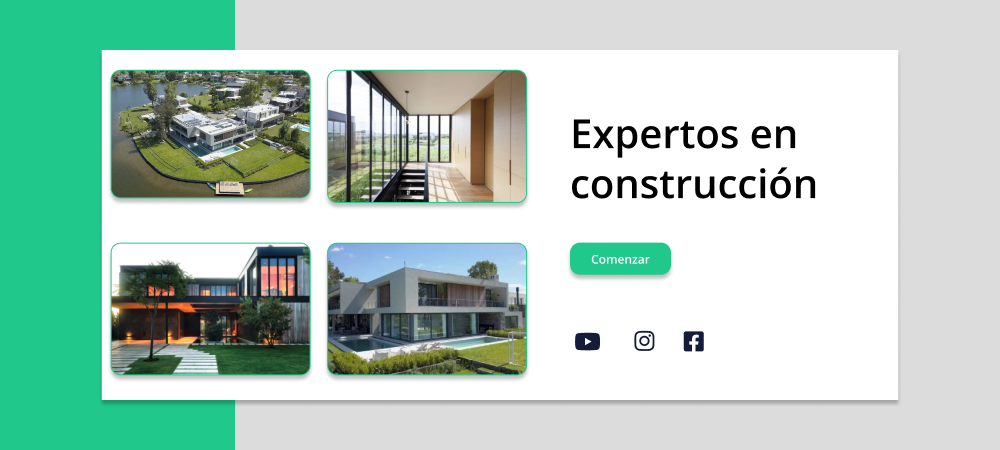
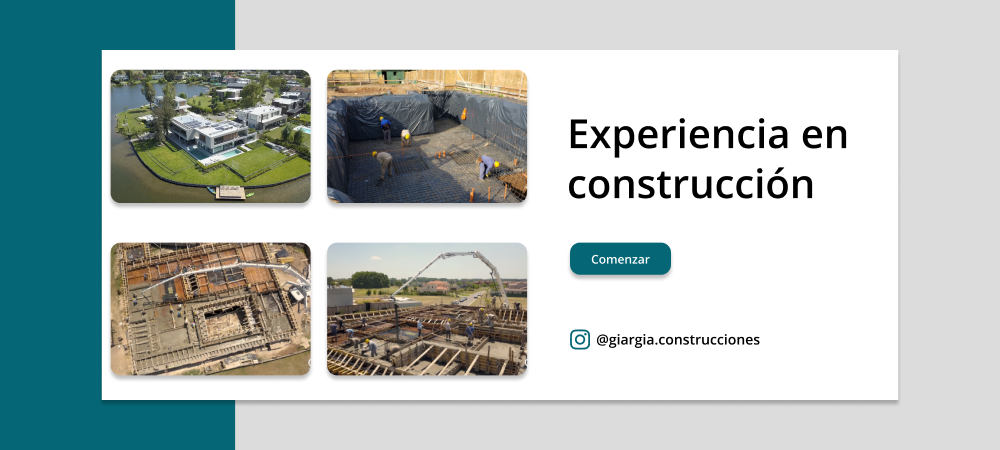
Maquetacion estructura inicial home

diff --git a/index.html b/index.html
@@ -16,10 +16,10 @@
 </head>
 <body>
     <!-- Menu Navbar -->
-    <nav class="navbar navbar-expand-lg">
+    <nav class="navbar navbar-expand-lg menu-navegacion">
         <div class="container">
             <a class="navbar-brand" href="#home"><img src="./img/logo-GA-2019.jpg" alt="logo Giargia" class="logo"></a>
-            <button class="navbar-toggler" type="button" data-toggle="collapse" data-target="#navbarNav" aria-controls="navbarNav" aria-expanded="false" aria-label="Toggle navigation">
+            <button class="navbar-toggler hamburger" type="button" data-toggle="collapse" data-target="#navbarNav" aria-controls="navbarNav" aria-expanded="false" aria-label="Toggle navigation">
                 <i class="fas fa-bars icon_menu"></i>
             </button>
             <div class="collapse navbar-collapse" id="navbarNav">
@@ -45,19 +45,19 @@
     <div class="main_banner">
         <img src="./img/image-hero.png" alt="main-image" class="main_banner-image">
         <div class="main_banner-content">
-            <h1 class="main_banner-title">Hacemos tu <br> proyecto posible</h1>
+            <h1 class="main_banner-title">Hacemos posible la <br> construcción de tu hogar.</h1>
             <button class="btn main_banner-boton">
-                <a href="#" class="main_banner_boton-link" role="button">Ver más</a>
+                <a href="#video" class="main_banner_boton-link" role="button">Conócenos</a>
             </button>
         </div>
     </div>
 
     <!-- Seccion Video -->
-    <section class="section_video">
+    <section class="section_video" id="video">
         <div class="container video_content">
             <div class="video_text">
-                    <h1>Trabajamos con profesionalismo, <br> compromiso e innovación</h1>
-                    <h2>Somos una empresa constructora con amplia experiencia, a través de más de <span class="font-weight-bold">40 años de trabajo ininterrumpido</span>, realizando una tarea que nos apasiona y, la cual, nos compromete con nuestros clientes.</h2>
+                    <h1>Construimos con profesionalismo, <br> compromiso e innovación</h1>
+                    <h2>Somos una empresa constructora con amplia experiencia, <span class="font-weight-bold">construyendo desde 1994 ininterrumpidamente</span>, realizando una tarea que nos apasiona y, la cual, nos compromete con nuestros clientes.</h2>
             </div>
             <button class="position-relative d-flex justify-content-center align-items-center border-0 p-0 button_modal" data-toggle="modal" data-target="#exampleModal">
                 <div class="play-icon position-absolute bg-dark rounded-circle d-flex">
@@ -82,6 +82,48 @@
         </div>
     </div>
 
+    <!-- Servicios -->
+    <main class="main_servicios">
+        <div class="servicios">
+            <div class="row">
+                <div class="col servicios_content">
+                    <h3 class="title_servicios">Nuestros servicios</h3>
+                </div>
+            </div>
+        </div>
+        <div class="container icon_container">
+            <div class="row icon_row">
+                <div class="col-12 col-md-4 civil">
+                    <i class="fas fa-pencil-ruler"></i>
+                    <h3 class="text-icon">Construcciones Civiles</h3>
+                </div>
+                <div class="col-12 col-md-4 hogar">
+                    <i class="fas fa-user-friends"></i>
+                    <h3 class="text-icon">Unifamiliar / multifamiliar</h3>
+                </div>
+                <div class="col-12 col-md-4 comercial">
+                    <i class="fas fa-hard-hat"></i>
+                    <h3 class="text-icon">Comercial</h3>
+                </div>
+            </div>
+        </div>
+    </main>
+
+    <!-- Mas sobre nosotros -->
+    <div class="container info_container">
+        <h4 class="info_title">Más sobre nosotros</h4>
+        <div class="row info_content">
+            <div class="col-12  col-md-4 info_border">
+                <h6 class="info_text">Mira nuestras obras finalzadas. <br> Contamos con muchos proyectos.</h6>
+                <button class="btn btn-outline-info info_margin">Ver más</button>
+            </div>
+            <div class="col-12 col-md-4 ">
+                <h6 class="info_text">Obras que se ven desde el cielo. <br> Con el maximo profesionalismo.</h6>
+                    <button class="btn btn-outline-info">Ver más</button>
+            </div>
+        </div>
+    </div>
+
 
     
 
@@ -90,7 +132,9 @@
     <script src="https://cdnjs.cloudflare.com/ajax/libs/popper.js/1.14.7/umd/popper.min.js" integrity="sha384-UO2eT0CpHqdSJQ6hJty5KVphtPhzWj9WO1clHTMGa3JDZwrnQq4sF86dIHNDz0W1" crossorigin="anonymous"></script>
     <script src="https://stackpath.bootstrapcdn.com/bootstrap/4.3.1/js/bootstrap.min.js" integrity="sha384-JjSmVgyd0p3pXB1rRibZUAYoIIy6OrQ6VrjIEaFf/nJGzIxFDsf4x0xIM+B07jRM" crossorigin="anonymous"></script>
 
+
     <!-- Script -->
+    <script src="./index.js"></script>
     <script>
         let buttonModal = document.querySelector('.button_modal');
         let iFrame = document.querySelector('.myFrame');

diff --git a/style.css b/style.css
@@ -3,6 +3,7 @@ font-family: 'Open Sans', sans-serif;
 font-family: 'Poppins', sans-serif;
  */
 
+ /* Config */
  body{
     margin: 0;
     padding: 0;
@@ -10,13 +11,15 @@ font-family: 'Poppins', sans-serif;
  }
 
  :root{
+    scroll-behavior: smooth;
     --open-sans:'Open Sans', sans-serif;
     --poppins: 'Poppins', sans-serif;
     --color-logo:#8E9089;
     --color-light:#ffffff;
-    --color-primary:#20C98B;
+    --color-primary:#056676;
     --color-footer:#141C3A;
  }
+
 
 /* ===================================== NAVBAR */
 .navbar{
@@ -70,17 +73,26 @@ font-family: 'Poppins', sans-serif;
     margin: 0;
 }
 .main_banner-boton{
-    background: var(--color-primary);
-    width: 100px;
+    background: var(--color-light);
     transition: .3s;
     margin-top: 2rem;
+    padding: 0;
 }
 .main_banner_boton-link{
-    color: var(--color-light);
+    color: var(--color-footer);
+    font-family: var(--open-sans);
+    font-weight: 600;
+    width: 100%;
+    height: 100%;
+    display: inline-block;
+    padding: .3em .7em;
 }
 .main_banner_boton-link:hover{
     color: var(--color-light);
     text-decoration: none;
+}
+.main_banner_boton:focus{
+    outline: none;    
 }
 .main_banner-boton:hover{
     background: transparent;
@@ -176,11 +188,101 @@ font-family: 'Poppins', sans-serif;
     text-shadow: none;
 }
 
+/* ==================================== Servicios */
+.main_servicios{
+    margin: 4rem 0;
+}
+.servicios{
+    width: 100%;
+    height: 300px;
+    background: var(--color-primary);
+}
+.servicios .row{
+    margin: 0;
+    width: 100%;
+    height: 100%;
+}
+.servicios_content{
+    display: flex;
+    flex-direction: row;
+    justify-content: center;
+    align-items: center;
+}
+.title_servicios{
+    font-family: var(--open-sans);
+    font-size: 2em;
+    font-weight: 600;
+    color: var(--color-light);
+}
+.icon_row{
+    -webkit-box-shadow: 0px 4px 4px 0px rgba(0,0,0,0.25);
+    -moz-box-shadow: 0px 4px 4px 0px rgba(0,0,0,0.25);
+    box-shadow: 0px 4px 4px 0px rgba(0,0,0,0.25);
+    margin-top: -80px;
+    background: var(--color-light);
+    border-radius: 10px;
+    padding: 10px 0;
+}
+[class*="fas"] {
+    color: var(--color-primary);
+    font-size: 2em;
+}
+.text-icon,.info_title{
+    font-family: var(--open-sans);
+    font-size: 1.3em;
+    color: var(--color-footer);
+    margin-top: .5rem;
+    font-weight: 600;
+}
+.civil,.hogar,.comercial{
+    width: 100%;
+    height: 200px;
+    display: flex;
+    flex-direction: column;
+    justify-content: center;
+    align-items: center;
+    text-align: center;
+}
+.civil,.hogar{
+    border-right: 2px solid #e6e6e6;
+    border-right-width: 1px;
+}
+
+/* ===================================== Más sobre nosotros */
+.info_border{
+    border-right: 2px solid #e6e6e6;
+    border-right-width: 1px;
+}
+.info_container{
+    text-align: center;
+    margin-bottom: 4rem ;
+}
+.info_content{
+    margin-top: 2rem;
+    display: flex;
+    flex-direction: row;
+    justify-content: center;
+    align-items: center;
+}
+.info_title{
+    font-family: var(--open-sans);
+    font-size: 1.3em;
+    font-weight: 600;
+    line-height: 34px;
+}
+.info_text{
+    margin: 2rem 0;
+    font-family: var(--open-sans);
+    font-size: 1.1em;
+    font-weight: 400;
+    line-height: 34px;
+}
+
 /* ================================================= MEDIA QUERIES */
 
 @media screen and (max-width:768px){
     .main_banner-title{
-        font-size: 2em;
+        font-size: 1.8em;
     }
     .main_banner-title h1{
         font-size: 2em;
@@ -189,5 +291,25 @@ font-family: 'Poppins', sans-serif;
     .video_text h2{
         width: 100%;
         font-size: 1.1em;
+    }
+    /* ============== servicios */
+    .icon_container{
+        width: 97%;
+    }
+    .title_servicios{
+        font-size: 1.5em;
+    }
+    .civil,.hogar{
+        border-bottom: 2px solid #e6e6e6;
+        border-bottom-width: 1px;
+        border-right: none;
+    }
+    .info_border{
+        border-bottom: 2px solid #e6e6e6;
+        border-bottom-width: 1px;
+        border-right: none;
+    }
+    .info_margin{
+        margin-bottom: 2rem;
     }
 }
